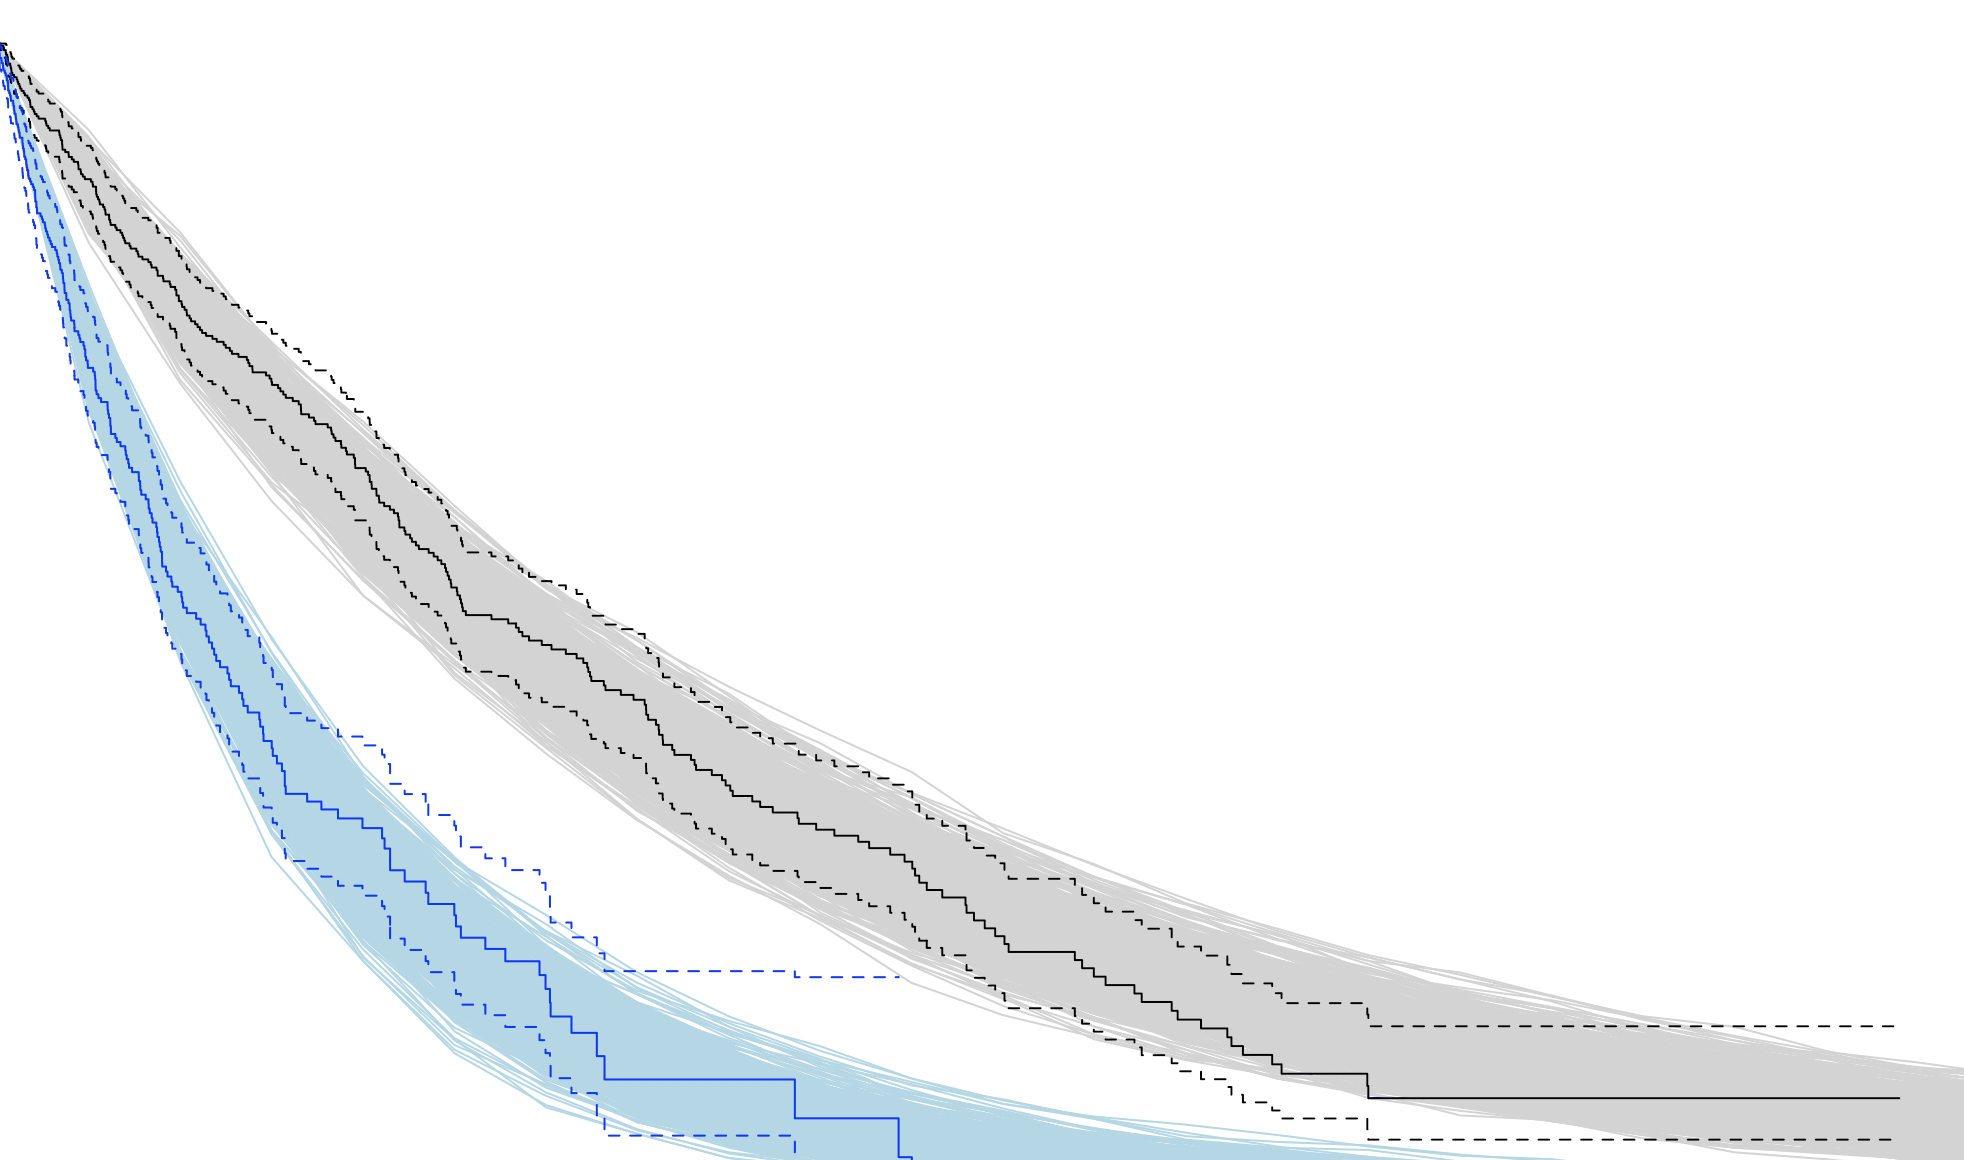
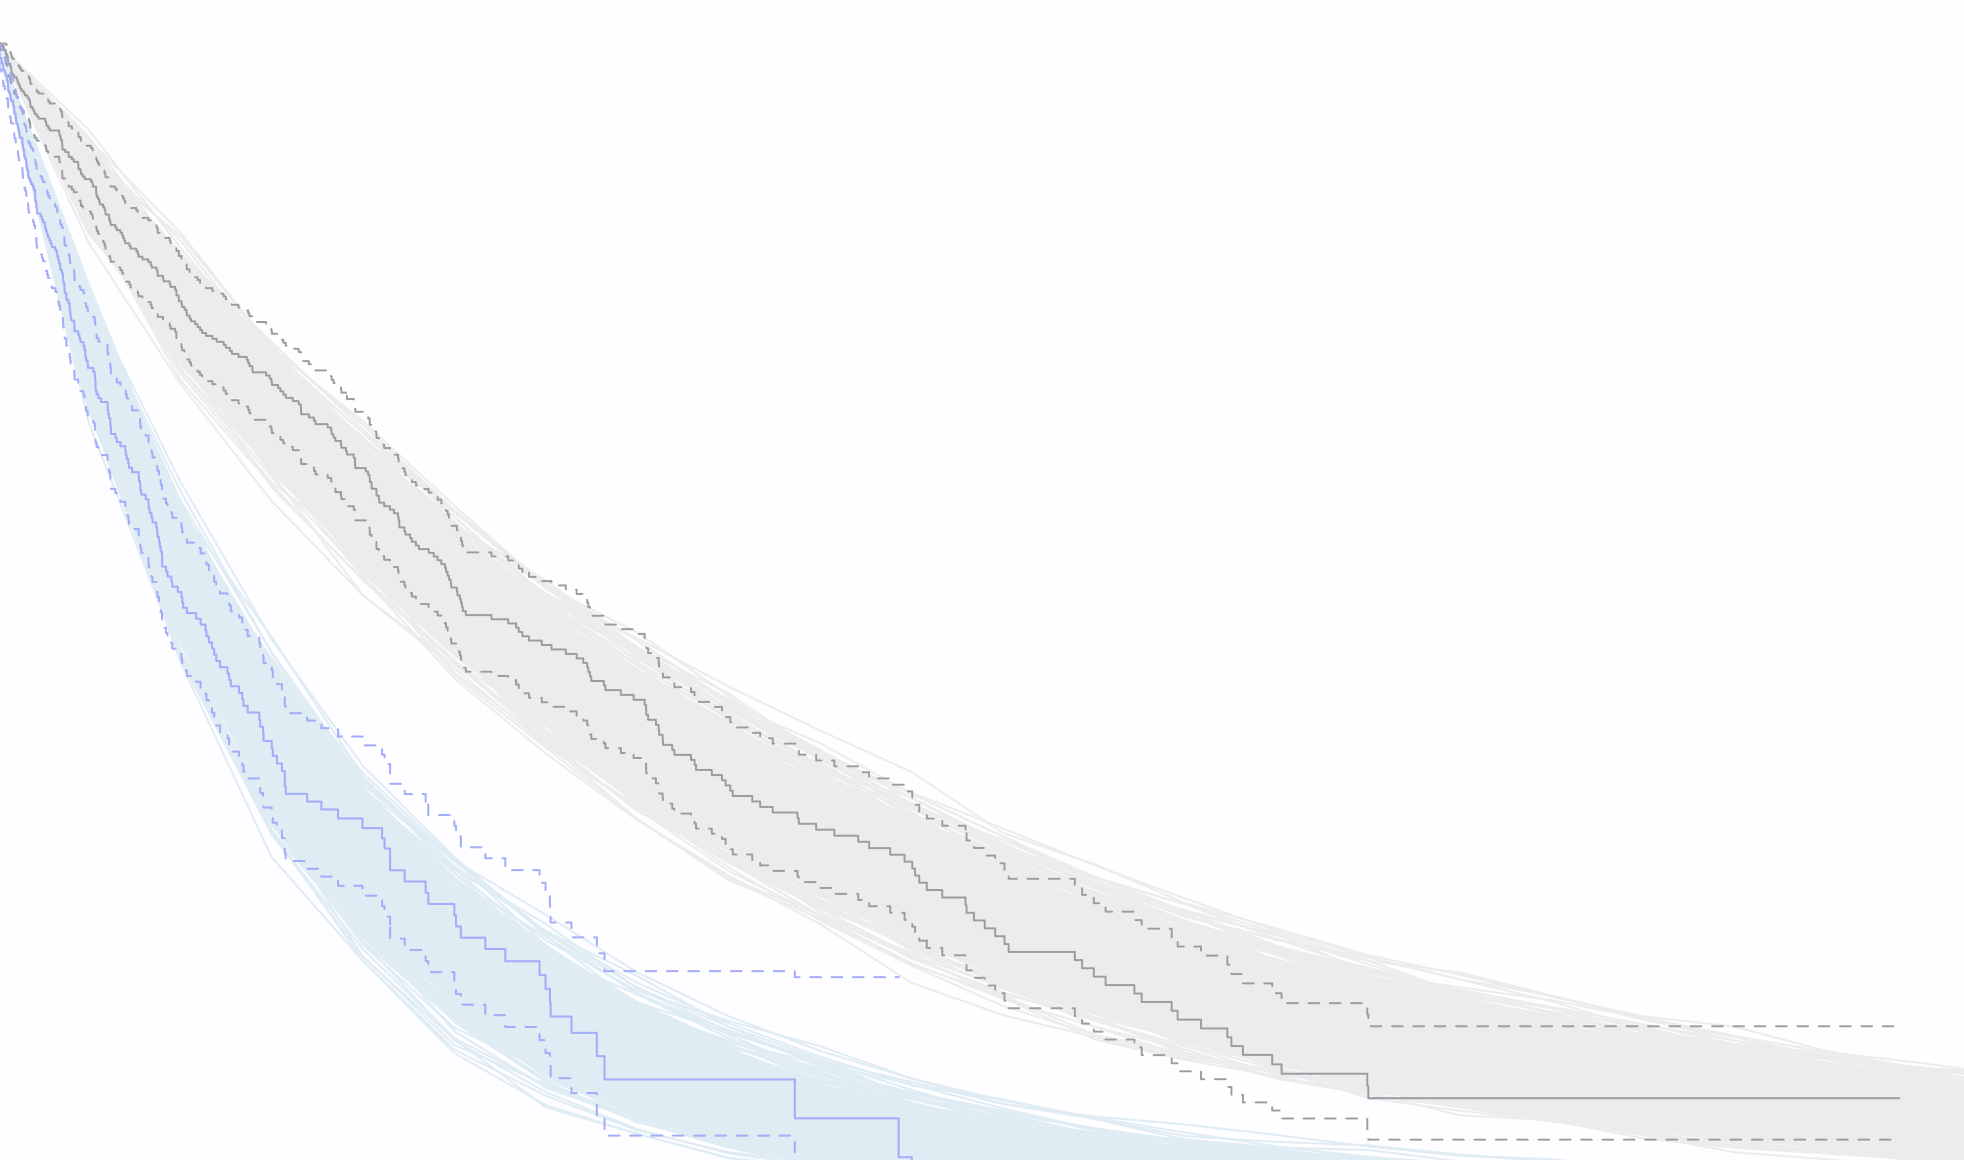
blur background

Changed region(s): [[0.0, 0.031, 1.0, 1.0]]

diff --git a/public/index.html b/public/index.html
@@ -528,7 +528,7 @@
   
   
   
-  <section id="posts" class="home-section wg-pages  parallax " style="background-image: linear-gradient(rgba(0, 0, 0, 0.1), rgba(0, 0, 0, 0.1)), url(&#39;/img/surv.png&#39;);">
+  <section id="posts" class="home-section wg-pages  parallax " style="background-image: linear-gradient(rgba(0, 0, 0, 0.05), rgba(0, 0, 0, 0.05)), url(&#39;/img/surv.png&#39;);">
     <div class="container">
       
 
@@ -590,19 +590,35 @@
 
 
 
-  
-
-
-
-
 
   
 
 
-<div class="card-simple" itemscope itemtype="http://schema.org/BlogPosting">
+
+
 
   
+
+
+<div class="media stream-item" itemscope itemtype="http://schema.org/BlogPosting">
+  <div class="media-body">
+
+    <h3 class="article-title mb-0 mt-0" itemprop="name">
+      <a href="/post/post2/specifying-accelerated-failure-time-models-in-stan/" itemprop="url">Specifying Accelerated Failure Time Models in STAN</a>
+    </h3>
+
     
+    <div class="article-style" itemprop="articleBody">
+      This post is an add-on to my previous post about augmented gibbs sampling for censored survival times. If you’re not a complete maniac …
+    </div>
+    
+
+    <div class="stream-meta article-metadata">
+
+      
+
+      
+        
 
 
 
@@ -654,25 +670,16 @@
 
 </div>
 
-  
+      
+    </div>
 
-  
-  
-  
+    
 
-  <h3 class="article-title mb-1 mt-3" itemprop="name">
-    <a href="/post/post2/specifying-accelerated-failure-time-models-in-stan/" itemprop="url">Specifying Accelerated Failure Time Models in STAN</a>
-  </h3>
-
-  
-  <div class="article-style" itemprop="articleBody">
-    This post is an add-on to my previous post about augmented gibbs sampling for censored survival times. If you’re not a complete maniac like me, then you probably don’t want to code your own sampler from scratch like I did in that previous post. Luckily you don’t have to because you can easily specify that same model in Stan.
-Let’s start with simulating some randomly censored data from a Weibull model.
   </div>
-  
-
-  
-
+  <div class="ml-3">
+    
+    
+  </div>
 </div>
 
       
@@ -685,19 +692,35 @@ Let’s start with simulating some randomly censored data from a Weibull model.
 
 
 
-  
-
-
-
-
 
   
 
 
-<div class="card-simple" itemscope itemtype="http://schema.org/BlogPosting">
+
+
 
   
+
+
+<div class="media stream-item" itemscope itemtype="http://schema.org/BlogPosting">
+  <div class="media-body">
+
+    <h3 class="article-title mb-0 mt-0" itemprop="name">
+      <a href="/post/post1/bayesian-survival-analysis-with-data-augmentation/" itemprop="url">Bayesian Survival Analysis with Data Augmentation</a>
+    </h3>
+
     
+    <div class="article-style" itemprop="articleBody">
+      Motivation Model Set Up Data Augmentation Metropolis-in-Gibbs Sampler Simulation Example in R   Motivation When dealing with …
+    </div>
+    
+
+    <div class="stream-meta article-metadata">
+
+      
+
+      
+        
 
 
 
@@ -749,24 +772,16 @@ Let’s start with simulating some randomly censored data from a Weibull model.
 
 </div>
 
-  
+      
+    </div>
 
-  
-  
-  
+    
 
-  <h3 class="article-title mb-1 mt-3" itemprop="name">
-    <a href="/post/post1/bayesian-survival-analysis-with-data-augmentation/" itemprop="url">Bayesian Survival Analysis with Data Augmentation</a>
-  </h3>
-
-  
-  <div class="article-style" itemprop="articleBody">
-    Motivation Model Set Up Data Augmentation Metropolis-in-Gibbs Sampler Simulation Example in R   Motivation When dealing with time-to-event data, right-censoring is a common occurance. Although most are familiar with likelihood construction under right-censoring (and corresponding frequentist estimation), there’s very little available online about Bayesian approaches even for fully parametric models. Here I’ll briefly outline a Bayesian estimation procedure for a Weibull model with right-censoring. The estimation procedure is MCMC based using a data augmentation approach.
   </div>
-  
-
-  
-
+  <div class="ml-3">
+    
+    
+  </div>
 </div>
 
       
@@ -1188,7 +1203,7 @@ Let’s start with simulating some randomly censored data from a Weibull model.
   
   
   
-  <section id="talks" class="home-section wg-pages  parallax " style="background-image: linear-gradient(rgba(0, 0, 0, 0.1), rgba(0, 0, 0, 0.1)), url(&#39;/img/surv.png&#39;);">
+  <section id="talks" class="home-section wg-pages  parallax " style="background-image: linear-gradient(rgba(0, 0, 0, 0.05), rgba(0, 0, 0, 0.05)), url(&#39;/img/surv.png&#39;);">
     <div class="container">
       
 

diff --git a/content/post/post2/2019-03-09-specifying-accelerated-failure-time-models-in-stan.html b/content/post/post2/2019-03-09-specifying-accelerated-failure-time-models-in-stan.html
@@ -125,8 +125,8 @@ generated quantities{
 <pre><code>## 
 ## SAMPLING FOR MODEL &#39;80acc0f9293b946800a710dd7f5e211c&#39; NOW (CHAIN 1).
 ## Chain 1: 
-## Chain 1: Gradient evaluation took 0.000141 seconds
-## Chain 1: 1000 transitions using 10 leapfrog steps per transition would take 1.41 seconds.
+## Chain 1: Gradient evaluation took 0.000146 seconds
+## Chain 1: 1000 transitions using 10 leapfrog steps per transition would take 1.46 seconds.
 ## Chain 1: Adjust your expectations accordingly!
 ## Chain 1: 
 ## Chain 1: 
@@ -143,9 +143,9 @@ generated quantities{
 ## Chain 1: Iteration: 19001 / 20000 [ 95%]  (Sampling)
 ## Chain 1: Iteration: 20000 / 20000 [100%]  (Sampling)
 ## Chain 1: 
-## Chain 1:  Elapsed Time: 9.37183 seconds (Warm-up)
-## Chain 1:                0.838987 seconds (Sampling)
-## Chain 1:                10.2108 seconds (Total)
+## Chain 1:  Elapsed Time: 10.1581 seconds (Warm-up)
+## Chain 1:                0.762223 seconds (Sampling)
+## Chain 1:                10.9203 seconds (Total)
 ## Chain 1:</code></pre>
 <pre class="r"><code>post_draws&lt;-extract(weibull_fit)</code></pre>
 <p>Below we plot posterior distribution of the hazard ratio. The red line indicates the true value under which we generated the data.</p>

diff --git a/public/post/post2/specifying-accelerated-failure-time-models-in-stan/index.html b/public/post/post2/specifying-accelerated-failure-time-models-in-stan/index.html
@@ -539,8 +539,8 @@ generated quantities{
 <pre><code>## 
 ## SAMPLING FOR MODEL &#39;80acc0f9293b946800a710dd7f5e211c&#39; NOW (CHAIN 1).
 ## Chain 1: 
-## Chain 1: Gradient evaluation took 0.000141 seconds
-## Chain 1: 1000 transitions using 10 leapfrog steps per transition would take 1.41 seconds.
+## Chain 1: Gradient evaluation took 0.000146 seconds
+## Chain 1: 1000 transitions using 10 leapfrog steps per transition would take 1.46 seconds.
 ## Chain 1: Adjust your expectations accordingly!
 ## Chain 1: 
 ## Chain 1: 
@@ -557,9 +557,9 @@ generated quantities{
 ## Chain 1: Iteration: 19001 / 20000 [ 95%]  (Sampling)
 ## Chain 1: Iteration: 20000 / 20000 [100%]  (Sampling)
 ## Chain 1: 
-## Chain 1:  Elapsed Time: 9.37183 seconds (Warm-up)
-## Chain 1:                0.838987 seconds (Sampling)
-## Chain 1:                10.2108 seconds (Total)
+## Chain 1:  Elapsed Time: 10.1581 seconds (Warm-up)
+## Chain 1:                0.762223 seconds (Sampling)
+## Chain 1:                10.9203 seconds (Total)
 ## Chain 1:</code></pre>
 <pre class="r"><code>post_draws&lt;-extract(weibull_fit)</code></pre>
 <p>Below we plot posterior distribution of the hazard ratio. The red line indicates the true value under which we generated the data.</p>

diff --git a/content/home/posts.md b/content/home/posts.md
@@ -35,7 +35,7 @@ subtitle = ""
   #   2 = Compact
   #   3 = Card
   #   4 = Citation (publication only)
-  view = 3
+  view = 2
   
 [design.background]
   # Apply a background color, gradient, or image.
@@ -51,8 +51,8 @@ subtitle = ""
   # gradient_end = "SkyBlue"
   
   # Background image.
-   image = "surv.png"  # Name of image in `static/img/`.
-   image_darken = 0.1  # Darken the image? Range 0-1 where 0 is transparent and 1 is opaque.
+  image = "surv.png"  # Name of image in `static/img/`.
+  image_darken = 0.05  # Darken the image? Range 0-1 where 0 is transparent and 1 is opaque.
 
   # Text color (true=light or false=dark).
   text_color_light = false  

diff --git a/content/home/talks.md b/content/home/talks.md
@@ -54,7 +54,7 @@ subtitle = ""
   
   # Background image.
   image = "surv.png"  # Name of image in `static/img/`.
-  image_darken = 0.1  # Darken the image? Range 0-1 where 0 is transparent and 1 is opaque.
+  image_darken = 0.05  # Darken the image? Range 0-1 where 0 is transparent and 1 is opaque.
 
   # Text color (true=light or false=dark).
   text_color_light = false  
